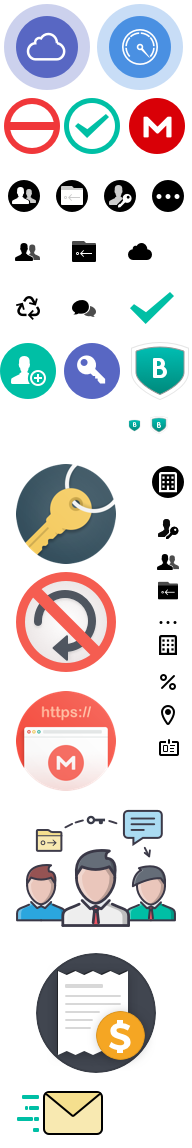
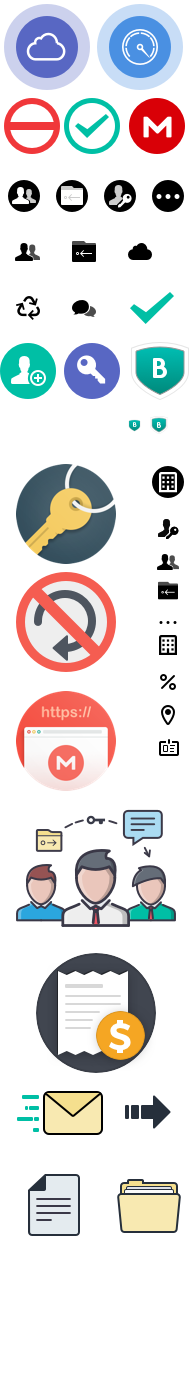
data migrate process dialog update

diff --git a/css/style.css b/css/style.css
@@ -26751,6 +26751,14 @@ opacity: 1;
     position: relative;
 }
 
+.user-management-view .icon64, .user-management-dialog .icon64 {
+    background-image: url(../images/mega/big-icons.png);
+    background-repeat: no-repeat;
+    width:64px;
+    height: 64px;
+    position: relative;
+}
+
 .user-management-view .add-user-icon56 {
     background-position: 0 -343px;
 }
@@ -29417,6 +29425,139 @@ opacity: 1;
 .content-panel.business-dashboard .intro-info.disabled, .content-panel.dashboard .intro-info.disabled{
     color:#666;
 }
+
+.user-management-migrate-process-dialog {
+    width: 560px;
+    height: auto;
+    left: 50%;
+    margin-left: -280px;
+    top: 50%;
+    margin-top: -98px;
+}
+
+.user-management-migrate-process-dialog .heading-text{
+    margin:40px 20px;
+    font-size: 16px;
+    color:#333;
+    text-align: center;
+    line-height: 22px;
+}
+
+.user-management-migrate-process-dialog .center-container {
+    width:100%;
+    padding:0px 64px;
+    margin: 8px 0;
+    display: block;
+    box-sizing: border-box;
+}
+
+.user-management-migrate-process-dialog .image-block {
+    display: inline-block;
+    width:148px;
+}
+
+.user-management-migrate-process-dialog .image-block p {
+    text-align: center;
+    font-size: 14px;
+    color: #888;
+    line-height: 18px;
+    width: 100%;
+}
+
+.user-management-migrate-process-dialog .image-block .icon64 {
+    margin:0 43px 16px 43px;
+}
+
+.image-from {
+    background-position: -22px -1173px;
+}
+
+.user-management-migrate-process-dialog .process-container {
+    display: inline-block;
+    width:128px;
+    height: 64px;
+    position: relative;
+    vertical-align: top;
+}
+
+.process-arrow {
+    background-position: -124px 1088px;
+}
+
+.user-management-migrate-process-dialog .process-arrow {
+    position: absolute;
+    top:14px;
+    left: 0px;
+}
+
+.image-to {
+    background-position: -117px -1173px;
+}
+
+.user-management-migrate-process-dialog .bottom-container{
+    width: 100%;
+    height: 88px;
+    padding: 0 48px;
+    margin-top:16px;
+    background-color: rgba(250,250,250,1);
+    position: relative;
+    box-sizing: border-box;
+}
+
+.user-management-migrate-process-dialog .bottom-container::before {
+    content: "";
+    width:100%;
+    height: 1px;
+    left: 0;
+    top: 0;
+    background-color: rgba(0,0,0,0.1);
+    position: absolute;
+}
+
+.user-management-migrate-process-dialog .data-migrate.process-block {
+    width: 384px;
+    height: 4px;
+    border-radius: 2px;
+    background-color: rgba(0,0,0,0.1);
+    margin:42px 20px 42px 0px;
+    display: inline-block;
+    position: relative;
+}
+
+.user-management-migrate-process-dialog .data-migrate.progress-bar {
+    background-color: #00BFA5;
+    height: 4px;
+    border-radius: 2px;
+    width: 60%;
+}
+
+.user-management-migrate-process-dialog .process-percentage {
+    position: relative;
+    display: inline-block;
+    width: 56px;
+    height: 24px;
+    border-radius: 12px;
+    background-color: #333;
+    color: #fff;
+    text-align: center;
+    line-height: 24px;
+    font-size: 14px;
+    font-weight: bold;
+    margin:32px 0;
+    vertical-align: top;
+}
+
+
+
+
+
+
+
+
+
+
+
+
 
 
 

diff --git a/html/dialogs.html b/html/dialogs.html
@@ -4999,3 +4999,57 @@
         </div>
     </div>
 </div>
+
+<!--migrate data prpcess dialog-->
+<div class="user-management-migrate-process-dialog user-management-dialog fm-dialog hidden">
+    <div class="heading-text">Data migration is in progress, it may take up a few minutes</div>
+    <div class="center-container">
+        <div class="image-block">
+            <div class="icon64 image-from"></div>
+            <p>Jay Pierce’s data</p>
+        </div>
+
+        <div class="process-container">
+            <div class="icon48 process-arrow"></div>
+        </div>
+        <div class="image-block">
+            <div class="icon64 image-to"></div>
+            <p>Your cloud drive</p>
+        </div>
+    </div>
+    <div class="bottom-container">
+        <div class="data-migrate process-block">
+            <div class="data-migrate progress-bar"></div>
+        </div>
+        <div class="process-percentage">80%</div>
+    </div>
+</div>
+
+
+
+
+
+
+
+
+
+
+
+
+
+
+
+
+
+
+
+
+
+
+
+
+
+
+
+
+

diff --git a/css/retina-images.css b/css/retina-images.css
@@ -329,6 +329,12 @@ ul.top-ul li span, ul.mid-ul li span, ul.bot-ul li span, ul.can-ul li span, ul.c
     background-size: 192px auto;
 }
 
+.user-management-view .icon64, .user-management-dialog .icon64 {
+    background-image: url(../images/mega/big-icons@2x.png);
+    background-size: 192px auto;
+}
+
+
 /*.user-management-account-settings .invoice-detail .mega-logo {
     background-image: url(../images/mega/invoice-image_v1@2x.png);
     background-size: 120px auto;
